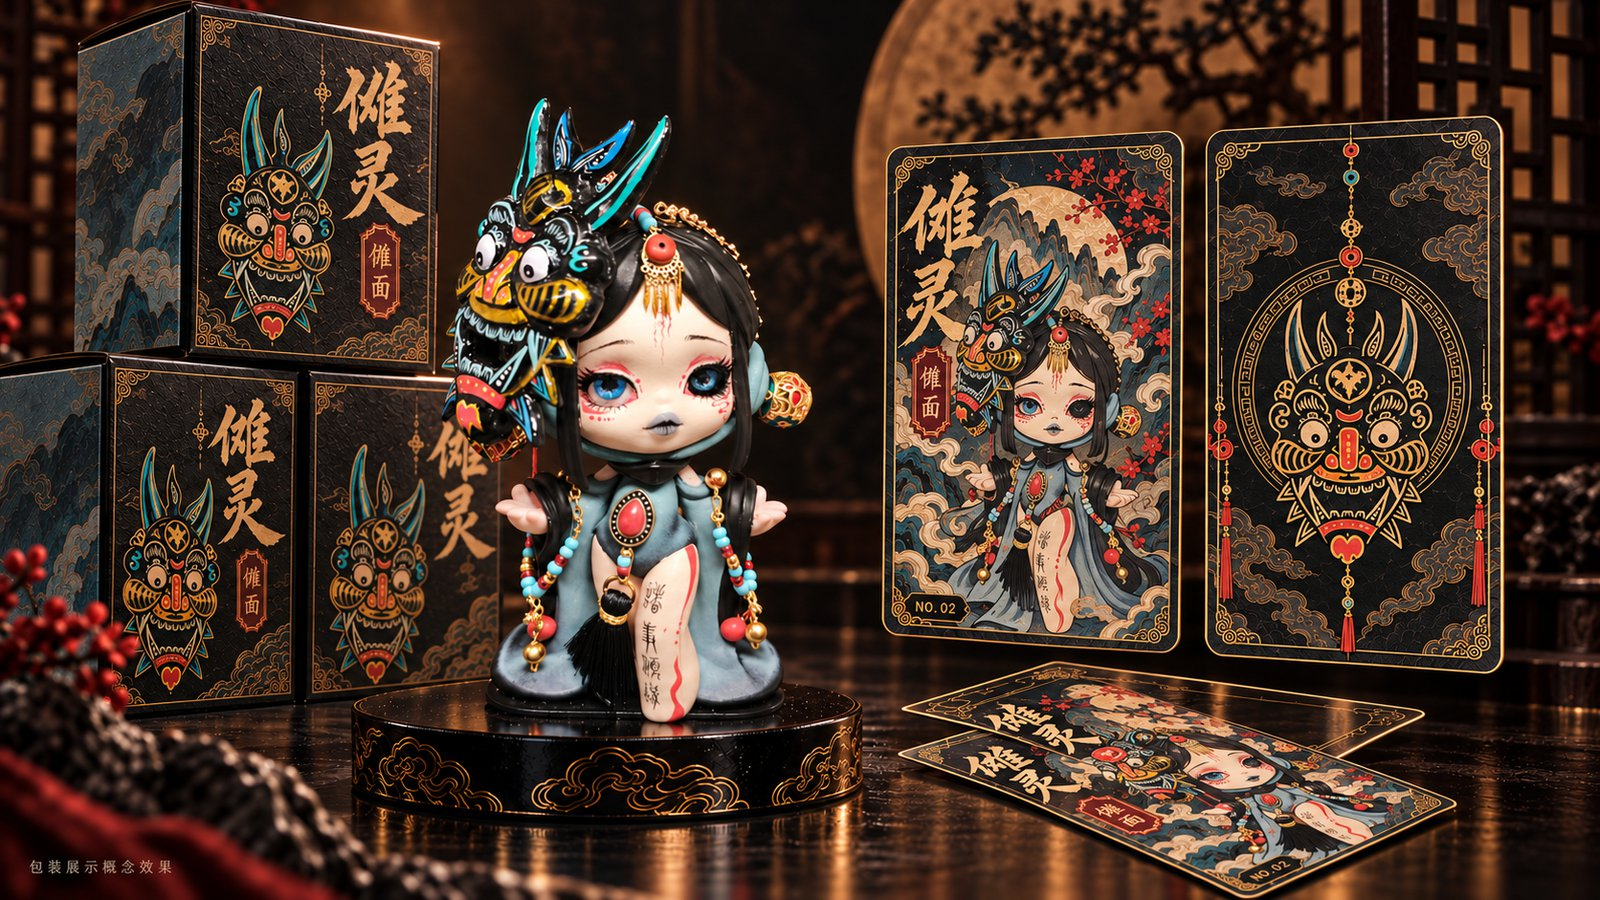
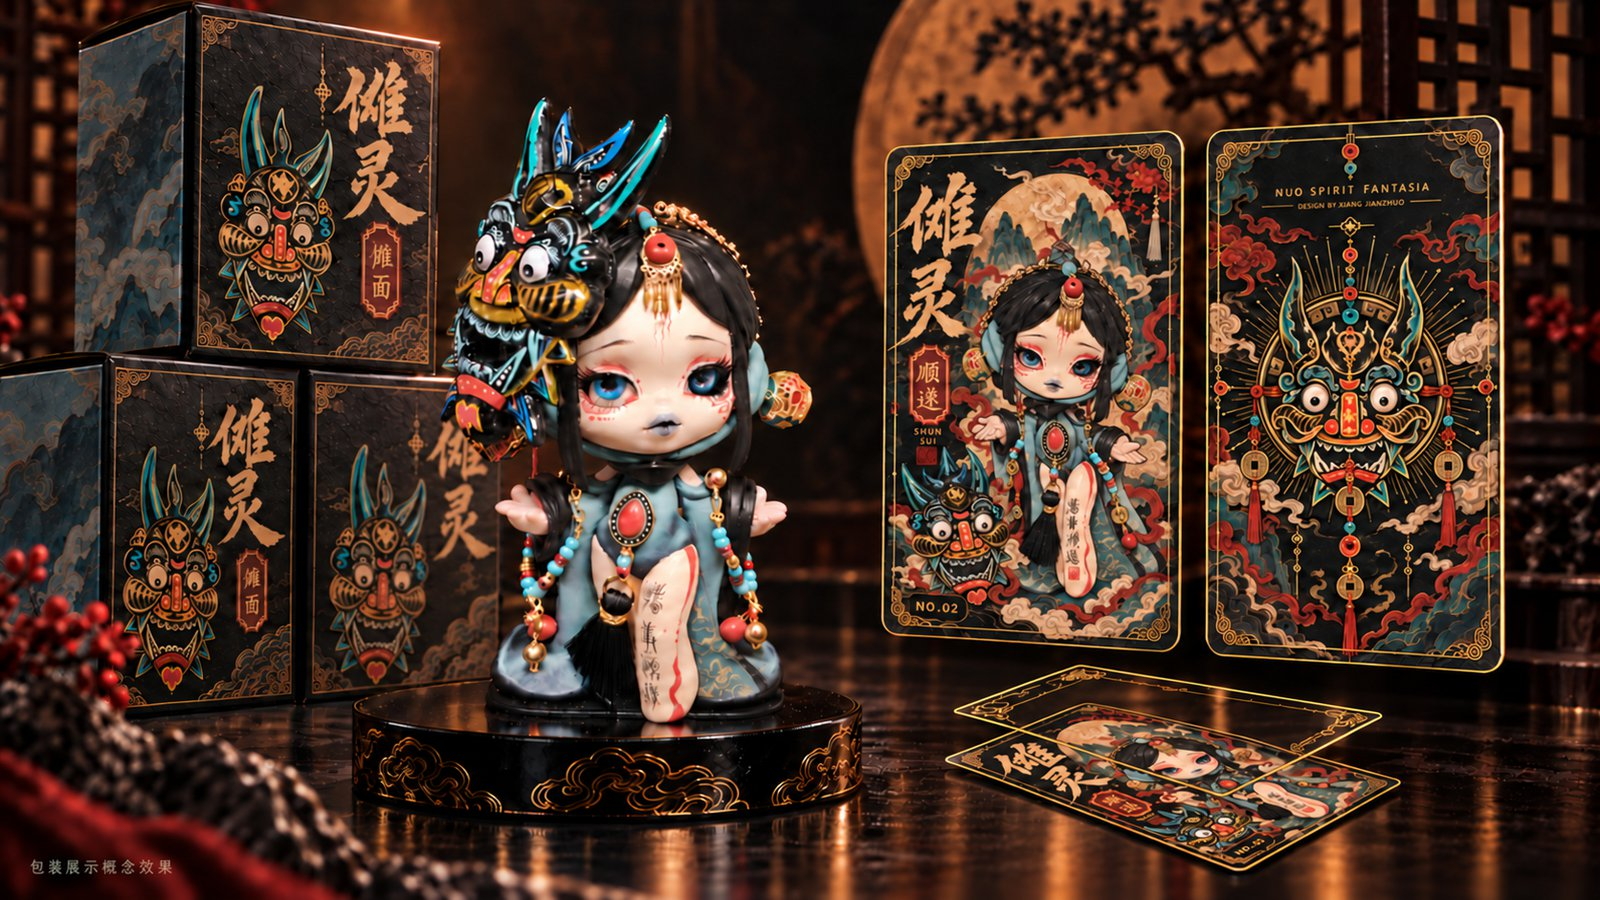
接入「面具摘下」效果图，与「面具佩戴」成对收尾；整体效果换精修版
- 新增 nuo2-final2（整体效果2 面具摘下）：兽面取下独立摆放，
  是磁吸可拆结构的实际验证，接在卡面出血之后
- 08 节收尾成「卡面正反 → 面具摘下 → 面具佩戴」三段，两张同场景
  图相邻并配对照文案，避免读者误认成重复图
- nuo2-final 换精修版，版本号进位 20260918c

diff --git a/nuoling.html b/nuoling.html
@@ -316,9 +316,13 @@
   </div>
   <div class="bleed-cap">传统傩面 · 身份卡 NO.02 —— 正面（“傩灵”题字 / “顺遂”印）· 背面（傩面徽记 / NUO SPIRIT FANTASIA）</div>
   <div class="bleed" data-reveal style="margin-top:56px">
-    <img src="assets/nuoling/nuo2-final.jpg?v=20260918" alt="传统傩面 成品、包装与身份卡 NO.02" loading="lazy">
+    <img src="assets/nuoling/nuo2-final2.jpg?v=20260918" alt="传统傩面 面具摘下后的姿态" loading="lazy">
   </div>
-  <div class="bleed-cap">成品与包装 · 身份卡 NO.02 —— 包装盒（傩灵 / 傩面）· 涂装完成的手办 · 身份卡正反面（包装展示概念效果）</div>
+  <div class="bleed-cap">面具摘下 —— 兽面取下后可独立摆放，验证磁吸可拆结构（与下图同场景对照）</div>
+  <div class="bleed" data-reveal style="margin-top:56px">
+    <img src="assets/nuoling/nuo2-final.jpg?v=20260918c" alt="传统傩面 成品、包装与身份卡 NO.02" loading="lazy">
+  </div>
+  <div class="bleed-cap">面具佩戴 —— 成品与包装 · 身份卡 NO.02 —— 包装盒（傩灵 / 傩面）· 涂装完成的手办 · 身份卡正反面（包装展示概念效果）</div>
 </section>
 
 <!-- ===================== 09 系列进展 ===================== -->
